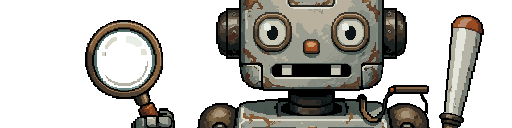
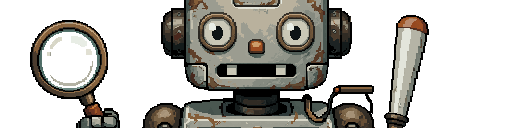
Route AutoIt3.exe tasks through autoit-run; update README
tasks.json: "Run current file" and "Compile with Options" now invoke
autoit-run instead of AutoIt3.exe directly. autoit-run is a
console-subsystem wrapper that spawns AutoIt3.exe with a real pipe,
streaming ConsoleWrite() output to Zed's terminal line-by-line.
Discovery: Get-Command (PATH) first, then HKCU\SOFTWARE\zed-autoit\RunnerPath
written by autoit-lsp.exe at startup.

README: add Limitations note about task rerun using cached $ZED_FILE,
pointing at zed-industries/zed#57380 (open upstream fix) with the
task:spawn workaround. Update robot.png.

diff --git a/README.md b/README.md
@@ -1,10 +1,10 @@
 <h1 align="center">AutoIt for Zed</h1>
 
-<p align="center">First-class editing support for <a href="https://www.autoitscript.com/site/autoit/">AutoIt v3</a> (<code>.au3</code>, <code>.a3x</code>) in the <a href="https://zed.dev">Zed editor</a> — syntax highlighting, live diagnostics, hover docs for ~3,500 built-in and library functions, outline, snippets, and one-keystroke task runners for the AutoIt toolchain.</p>
-
 <p align="center">
   <img src="./robot.png" alt="Pixel-art weathered robot holding a magnifying glass and a club — mascot for the AutoIt for Zed extension" width="500">
 </p>
+
+<p align="center">First-class editing support for <a href="https://www.autoitscript.com/site/autoit/">AutoIt v3</a> (<code>.au3</code>, <code>.a3x</code>) in the <a href="https://zed.dev">Zed editor</a> — syntax highlighting, live diagnostics, hover docs for ~3,500 built-in and library functions, outline, snippets, and one-keystroke task runners for the AutoIt toolchain.</p>
 
 ## Features
 
@@ -93,6 +93,7 @@ How this extension stacks up on the surfaces where extensions are usually compar
 ### Permanent constraints
 
 - **Diagnostics + tasks are Windows-only.** They invoke AutoIt's official binaries (`Au3Check.exe`, `AutoIt3.exe`, `Aut2Exe.exe`), which AutoIt itself only ships for Windows. Everything else — syntax, outline, hover, snippets, and the upcoming completion / go-to-def / find-references / cross-file features — works on Linux and macOS too.
+- **Task rerun uses the file from the first run, not the current file** (Zed limitation — [zed-industries/zed#57380](https://github.com/zed-industries/zed/pull/57380) is an open PR that fixes this upstream). Until that lands, use **task: spawn** (`ctrl-shift-p`) to pick a task for whichever file is currently active rather than relying on task rerun.
 - **`#region` doesn't fold** (Zed limitation — [zed-industries/zed#22703](https://github.com/zed-industries/zed/issues/22703) upstream). The grammar correctly identifies region blocks; Zed's folding mechanism doesn't currently support non-leaf-token multi-node folds.
 - **Outline panel is flat** (Zed limitation — the LSP emits a proper hierarchy with parameters as children of functions and contents nested under regions, but Zed's outline panel renders flat with indentation instead of expand/collapse).
 - **Snippets fire inside strings/comments** (Zed limitation in the snippet completion source — the extension's `overrides.scm` correctly identifies string/comment scopes, but Zed's snippet provider doesn't currently honor the per-scope override).